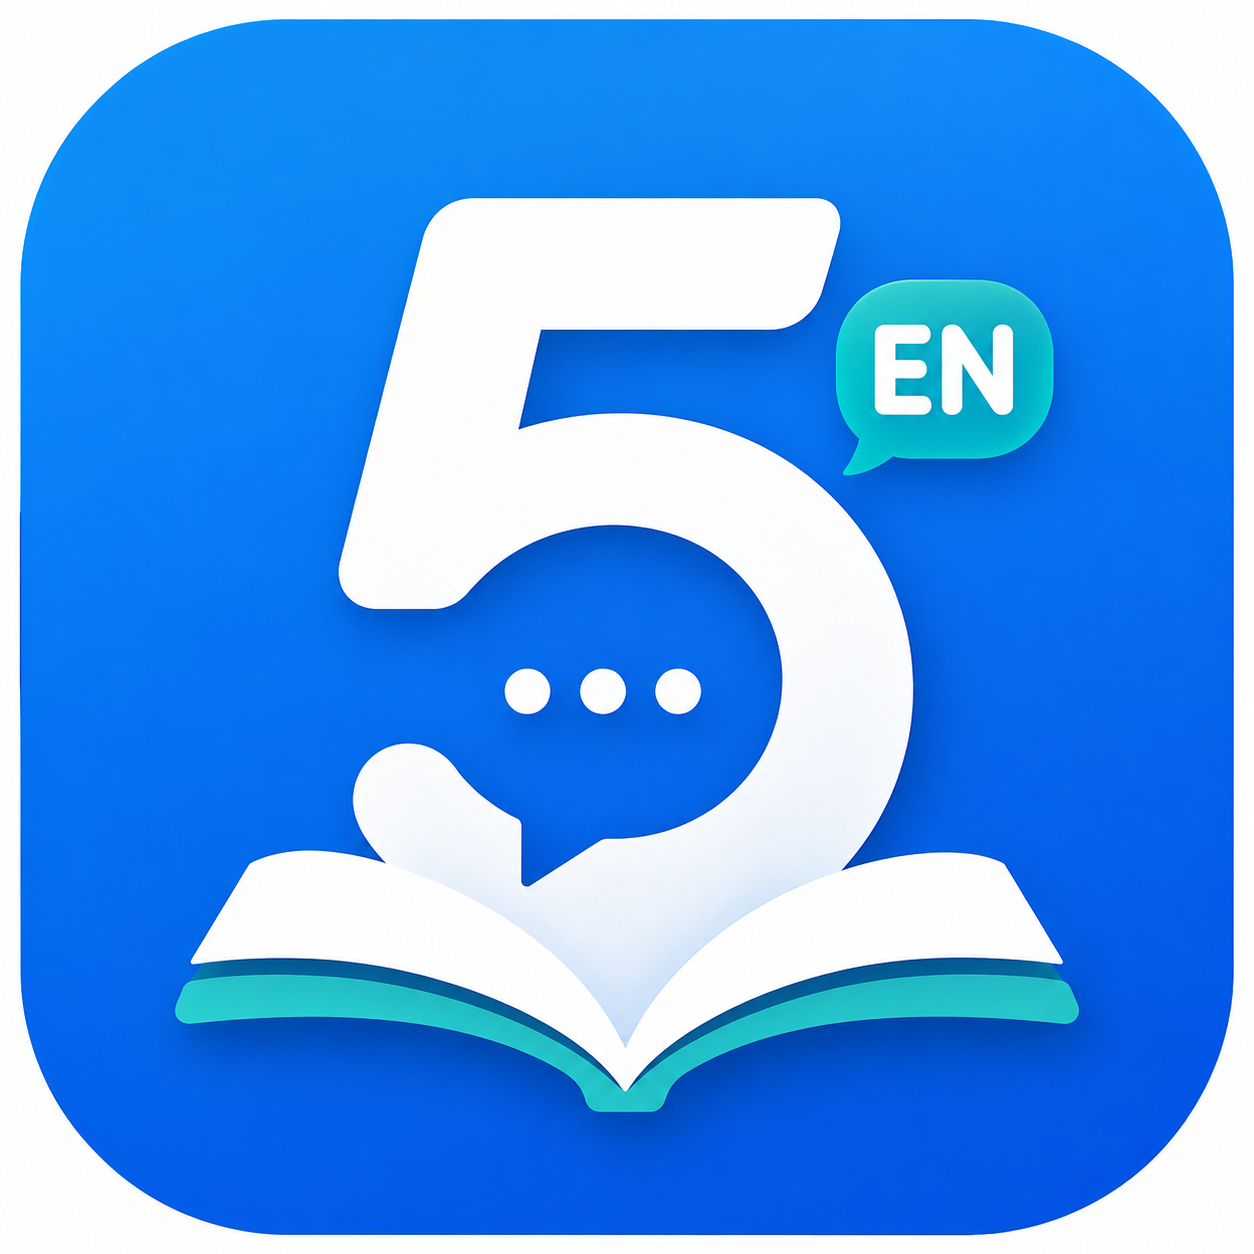
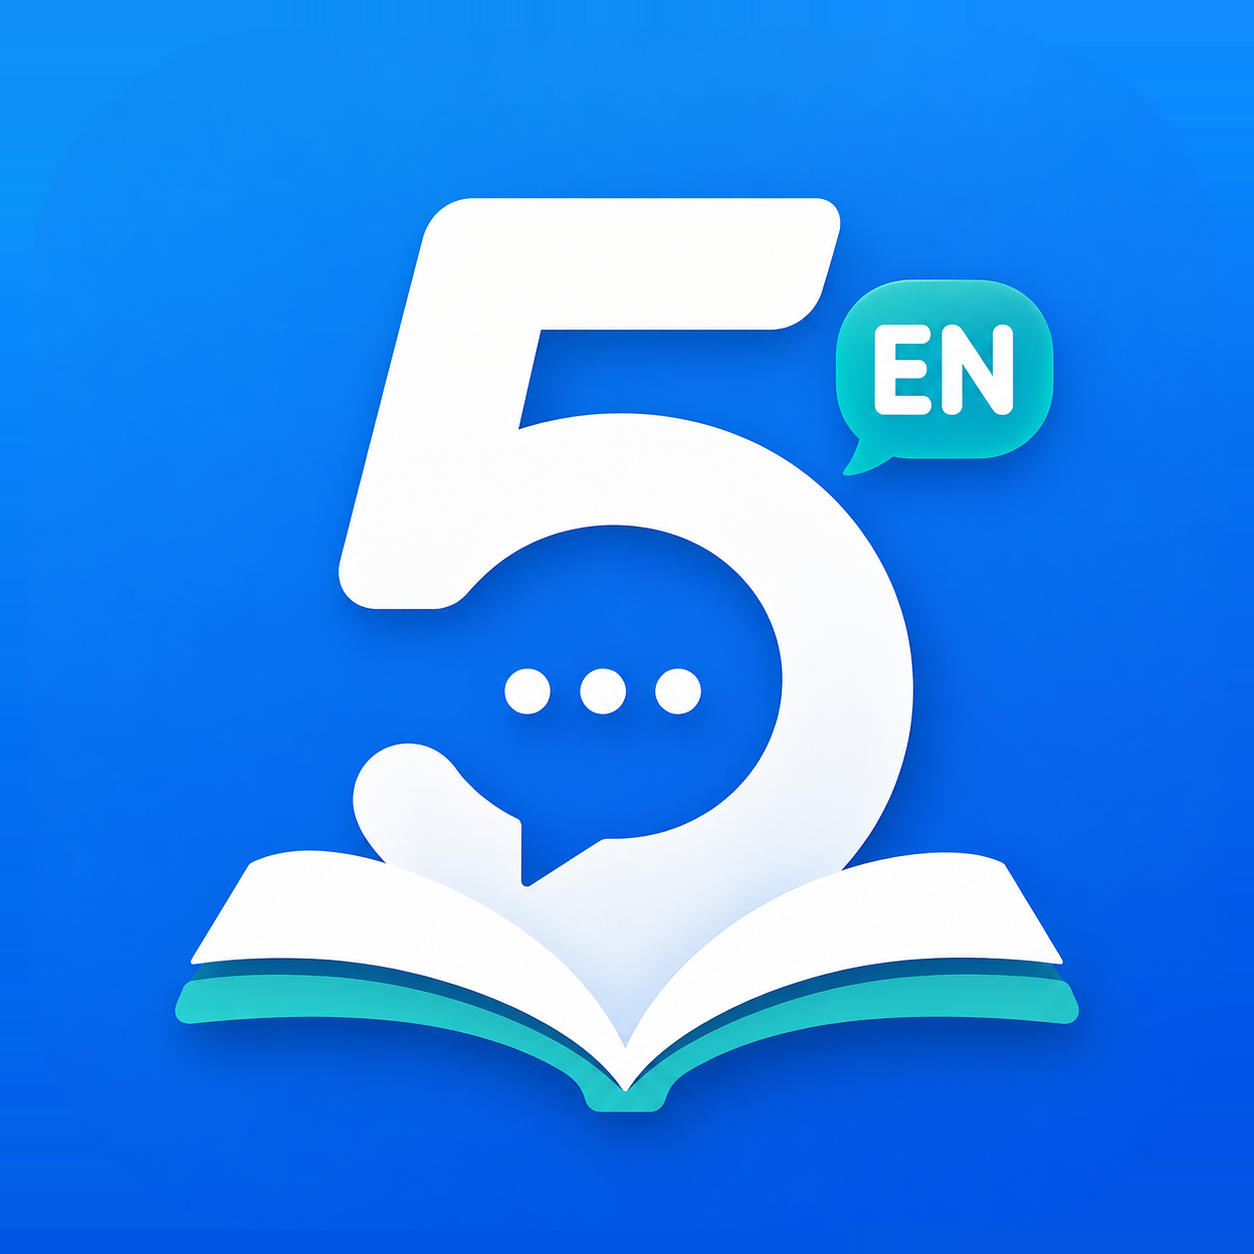
앱 아이콘 여백 제거 — 배경색 풀블리드 처리
흰 캔버스 위에 둥근 타일로 얹혀 있어 가장자리·모서리에 흰색이
남던 문제 수정. 가장자리 색을 사방으로 확장해 1254x1254 정사각형
전체를 배경색으로 채움(모서리 라운딩은 OS가 처리).

Changed region(s): [[0.0, 0.0, 1.0, 1.0]]

diff --git a/index.html b/index.html
@@ -6,8 +6,8 @@
   <meta name="theme-color" content="#6e1a6e" />
   <title>5차원 영어</title>
   <link rel="manifest" href="manifest.webmanifest" />
-  <link rel="icon" href="icon.png?v=8" type="image/png" />
-  <link rel="apple-touch-icon" href="icon.png?v=8" />
+  <link rel="icon" href="icon.png?v=9" type="image/png" />
+  <link rel="apple-touch-icon" href="icon.png?v=9" />
   <link rel="stylesheet" href="styles.css?v=8" />
 </head>
 <body>

diff --git a/sw.js b/sw.js
@@ -1,5 +1,5 @@
 /* 5차원 영어 · BASIC DRILL — 서비스워커 (오프라인 캐시) */
-const CACHE = 'fivedim-v8';
+const CACHE = 'fivedim-v9';
 const ASSETS = [
   '.',
   'index.html',
@@ -8,7 +8,7 @@ const ASSETS = [
   'patterns.js?v=8',
   'app.js?v=8',
   'manifest.webmanifest',
-  'icon.png?v=8',
+  'icon.png?v=9',
 ];
 
 self.addEventListener('install', e => {
